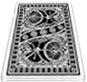
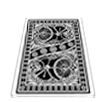
Agregue efecto de pila de cartas que se agranda cada vez que se tira una

diff --git a/js/mentiroso.js b/js/mentiroso.js
@@ -139,6 +139,7 @@ const fondoMain = document.getElementById("fondo-main");
 let urlImgMazo;
 let espacioFlag = false; // EVITA QUE SE PUEDA TOCAR ESPACIO CUANDO NO ES TU TURNO O NO HAY CARTAS EN LA MESA
 let posicionesCartasBot = [0, 1, 2, 3, 4, 5];
+let cont = 1;
 
 
 function cartaBotAleatoria(){
@@ -161,11 +162,12 @@ cartasPropias.forEach((carta, index) =>{
             cartaMazo.style.display = "block";           
             const img = carta.querySelector('img');
             urlImgMazo = img.src;
-            cartaMazo.src="../images/Reverso.png";
+            cartaMazo.src=`../images/Reverso${cont}.png`;
             cartaMazo.alt = img.alt;
             jugador1.turno = false;
             jugador1.cartasDisponibles--;
             jugador2.turno = true;
+            cont++;
         }   
         
         if(jugador2){  
@@ -182,7 +184,8 @@ cartasPropias.forEach((carta, index) =>{
                     voces.src = `../audio/one ${audioSelec} bot.mp3`;
                     voces.play();
                     cartasRival[numAux].style.display = "none";
-                    cartaMazo.src="../images/Reverso2.png"; //Hacer varios diseños y modificar el reverso 2-3-4-5 con ´´ USAR CONTADOR de cartas tiradas
+                    cartaMazo.src=`../images/Reverso${cont}.png`; 
+                    cont++;
                     const img = cartasRival[numAux].querySelector('img');
     
                     buscarEnApi(img.alt, (dato) => {
@@ -260,7 +263,7 @@ document.addEventListener('keydown', function(event){
         );
         
         setTimeout(()=>{
-            cartaMazo.src = urlImgMazo; // AGREGAR ACÁ EFEC ROTATIVO
+            cartaMazo.src = urlImgMazo;
             cartaMazo.style.zIndex = 40;
             cartaMazo.classList.add('levantar');
         }, 3500); 
@@ -357,6 +360,7 @@ function reiniciarRonda() {
 
     if(jugador1.vidas > 0 && jugador2.vidas == 0) ganador = "Ganaste!";
     if(jugador1.vidas == 0 && jugador2.vidas > 0) ganador = "Perdiste!";
+    cont = 1;
 
     jugador1.turno = true;
     jugador1.cartasDisponibles = 5;
